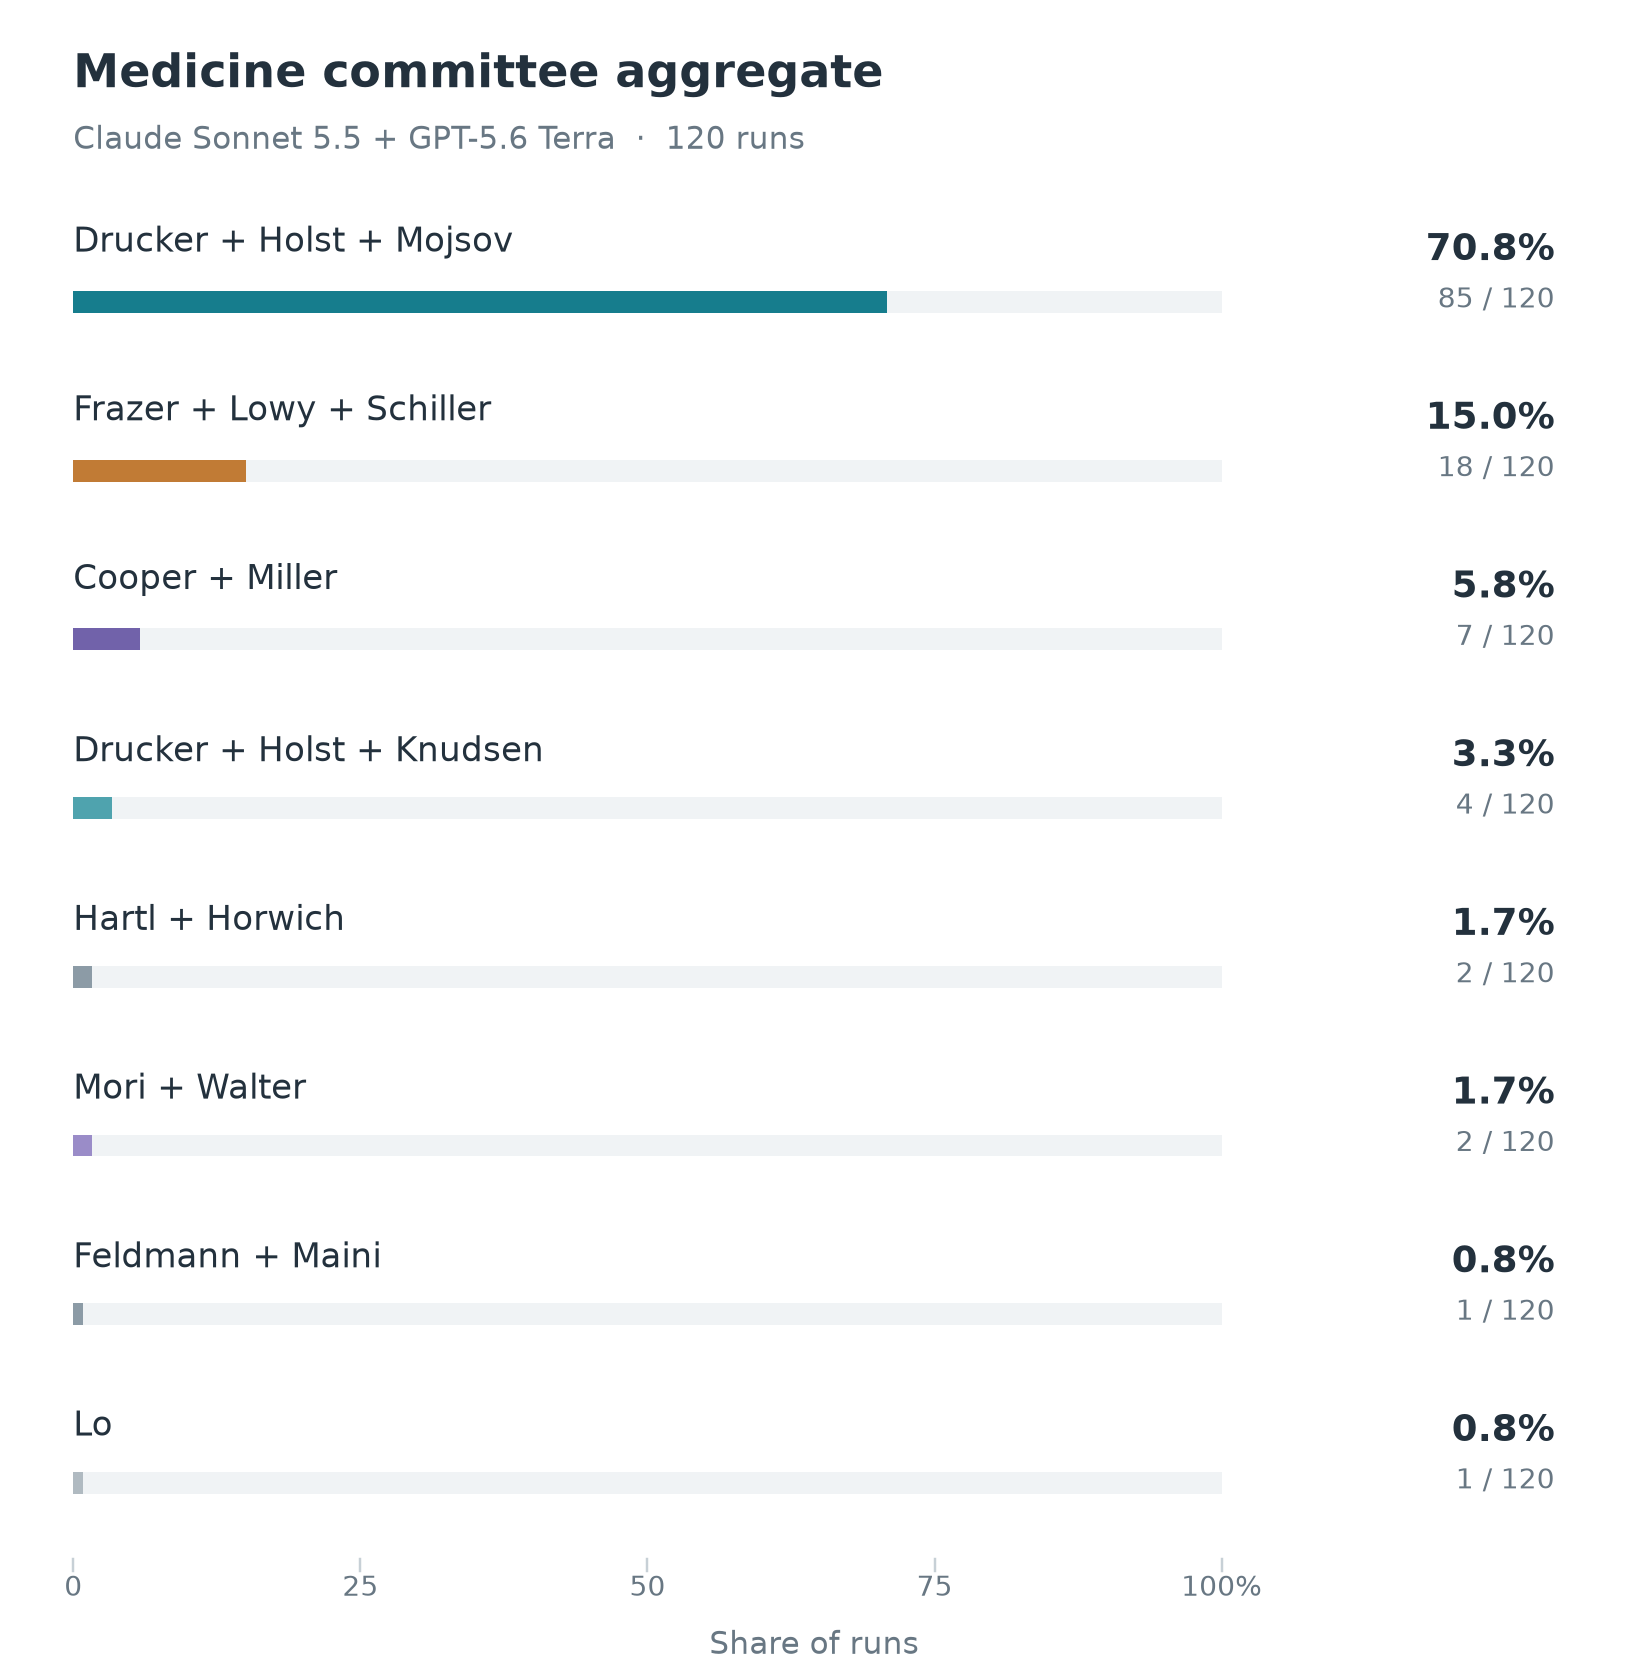
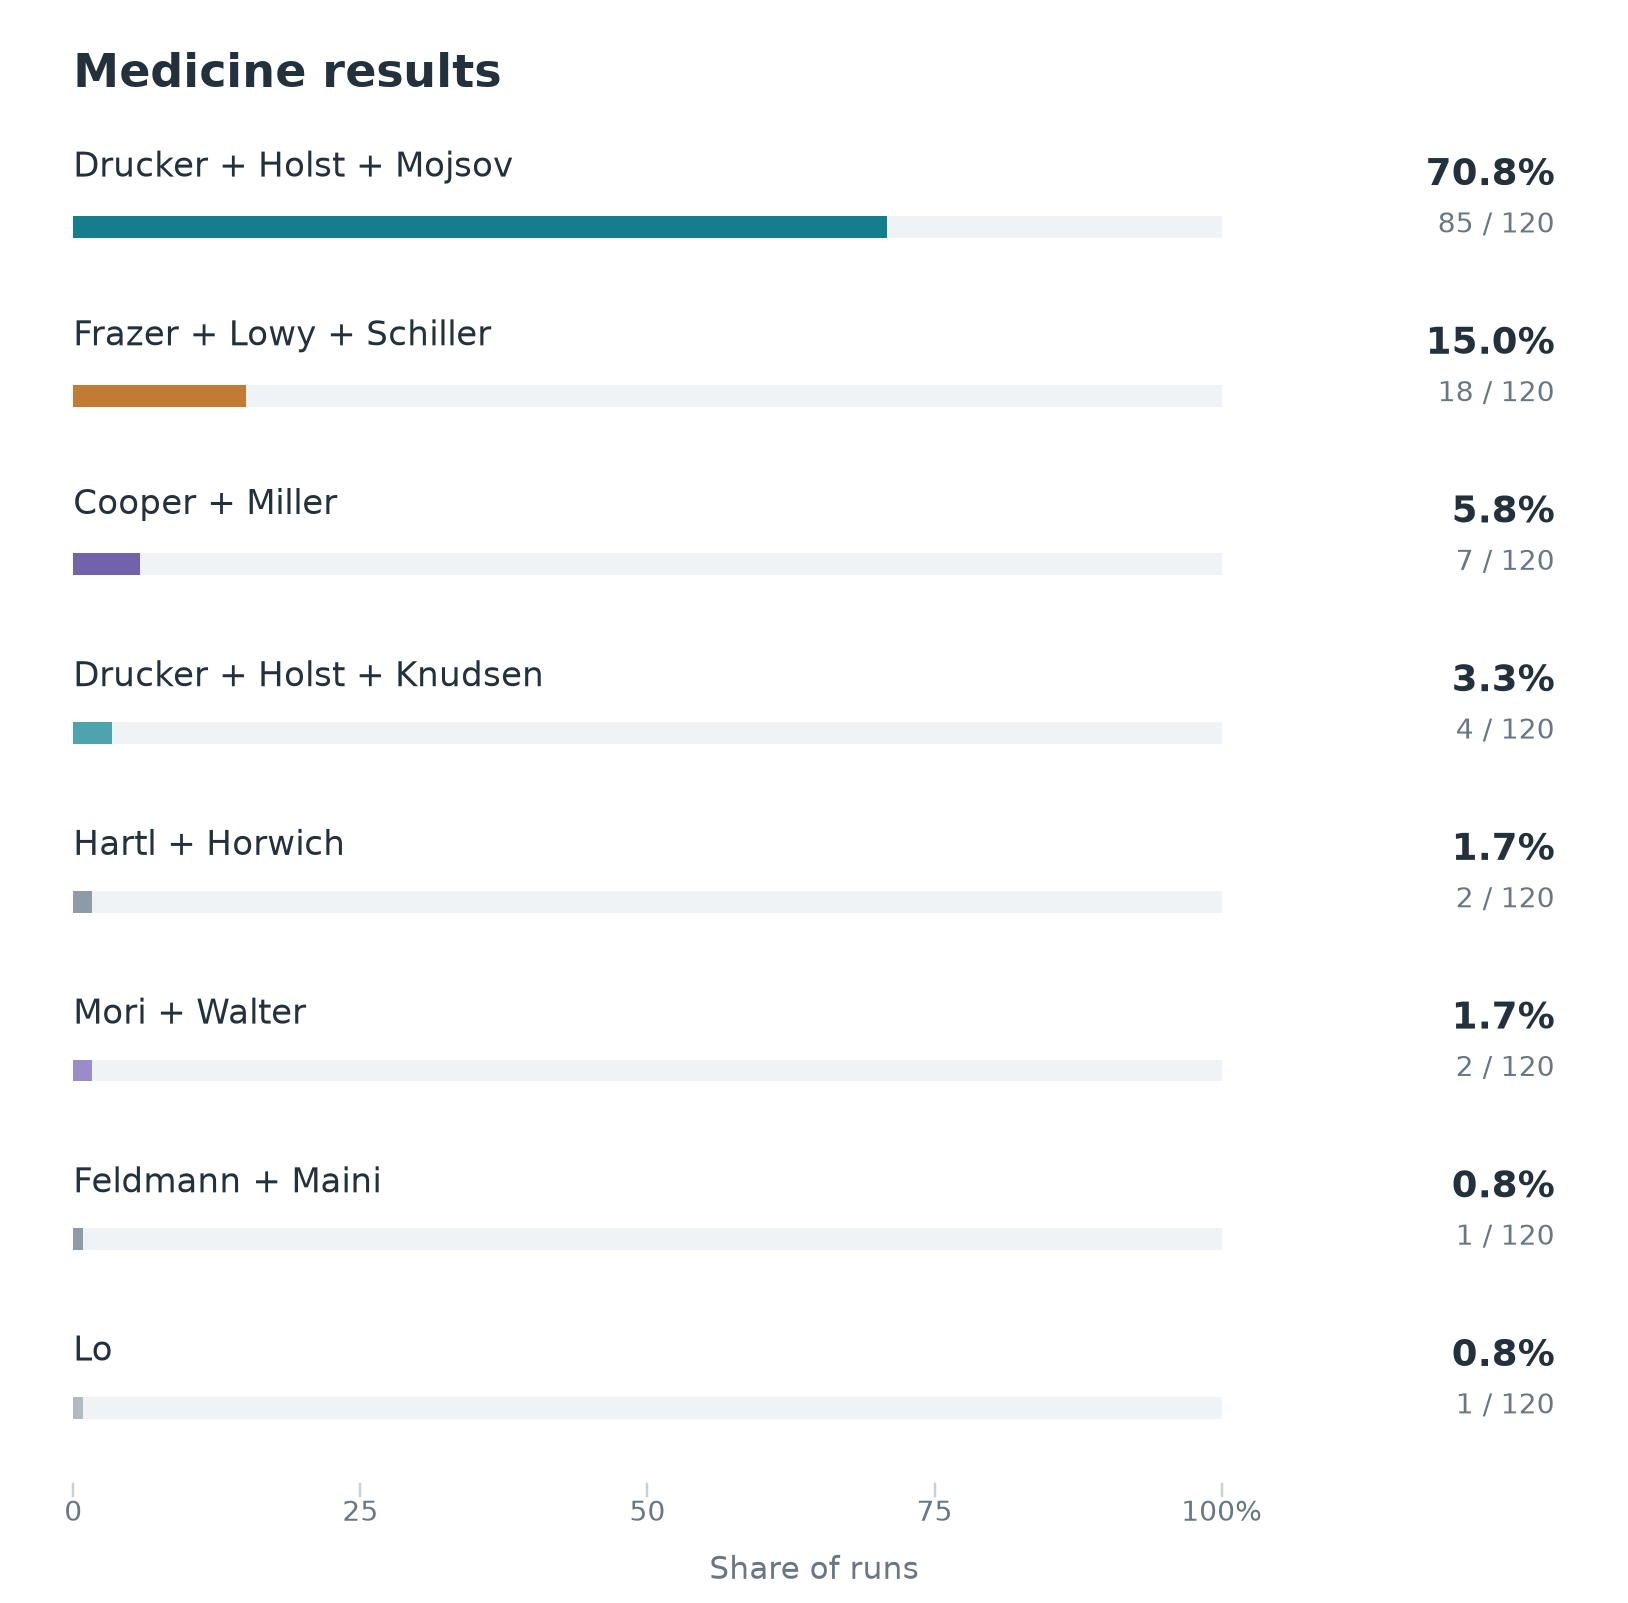
Match Medicine figure to Physics layout

diff --git a/scripts/plot_medicine_prediction_distributions.py b/scripts/plot_medicine_prediction_distributions.py
@@ -50,8 +50,8 @@ def main() -> None:
     oneshot = claude_oneshot()
     committee_rows = max(len(claude), len(terra))
     oneshot_rows = max(len(claude), len(oneshot))
-    physics.plot("medicine-committee-aggregate-distribution.png", "Medicine committee aggregate",
-                 "Claude Sonnet 5.5 + GPT-5.6 Terra", aggregate, len(aggregate))
+    physics.plot("medicine-committee-aggregate-distribution.png", "Medicine results",
+                 None, aggregate, len(aggregate))
     physics.plot("medicine-claude-committee-distribution.png", "Claude committee",
                  "Claude Sonnet 5.5", claude, committee_rows)
     physics.plot("medicine-terra-committee-distribution.png", "Terra committee",
